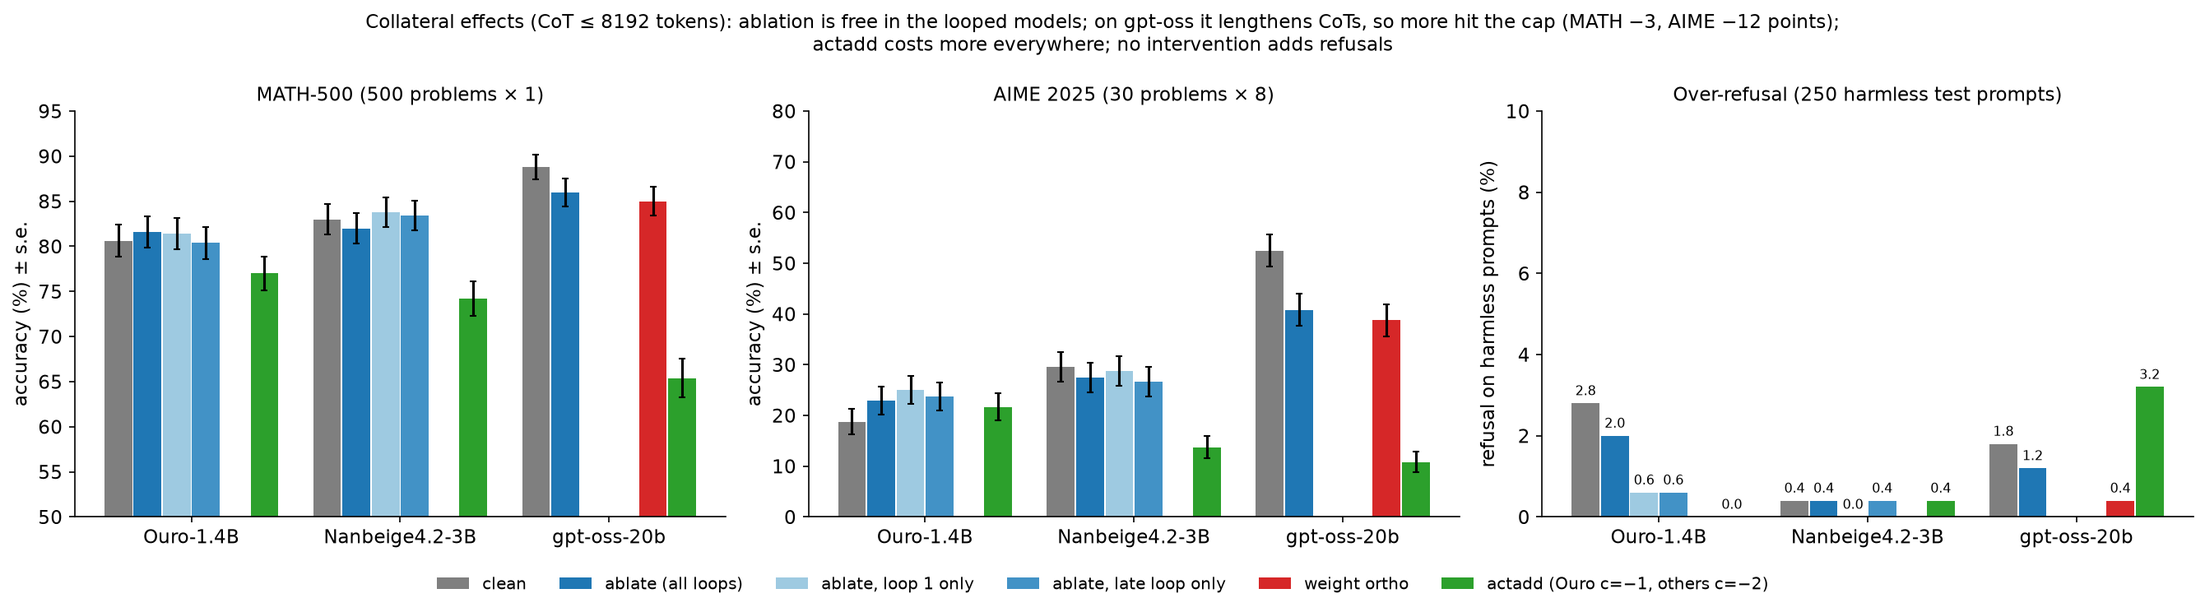
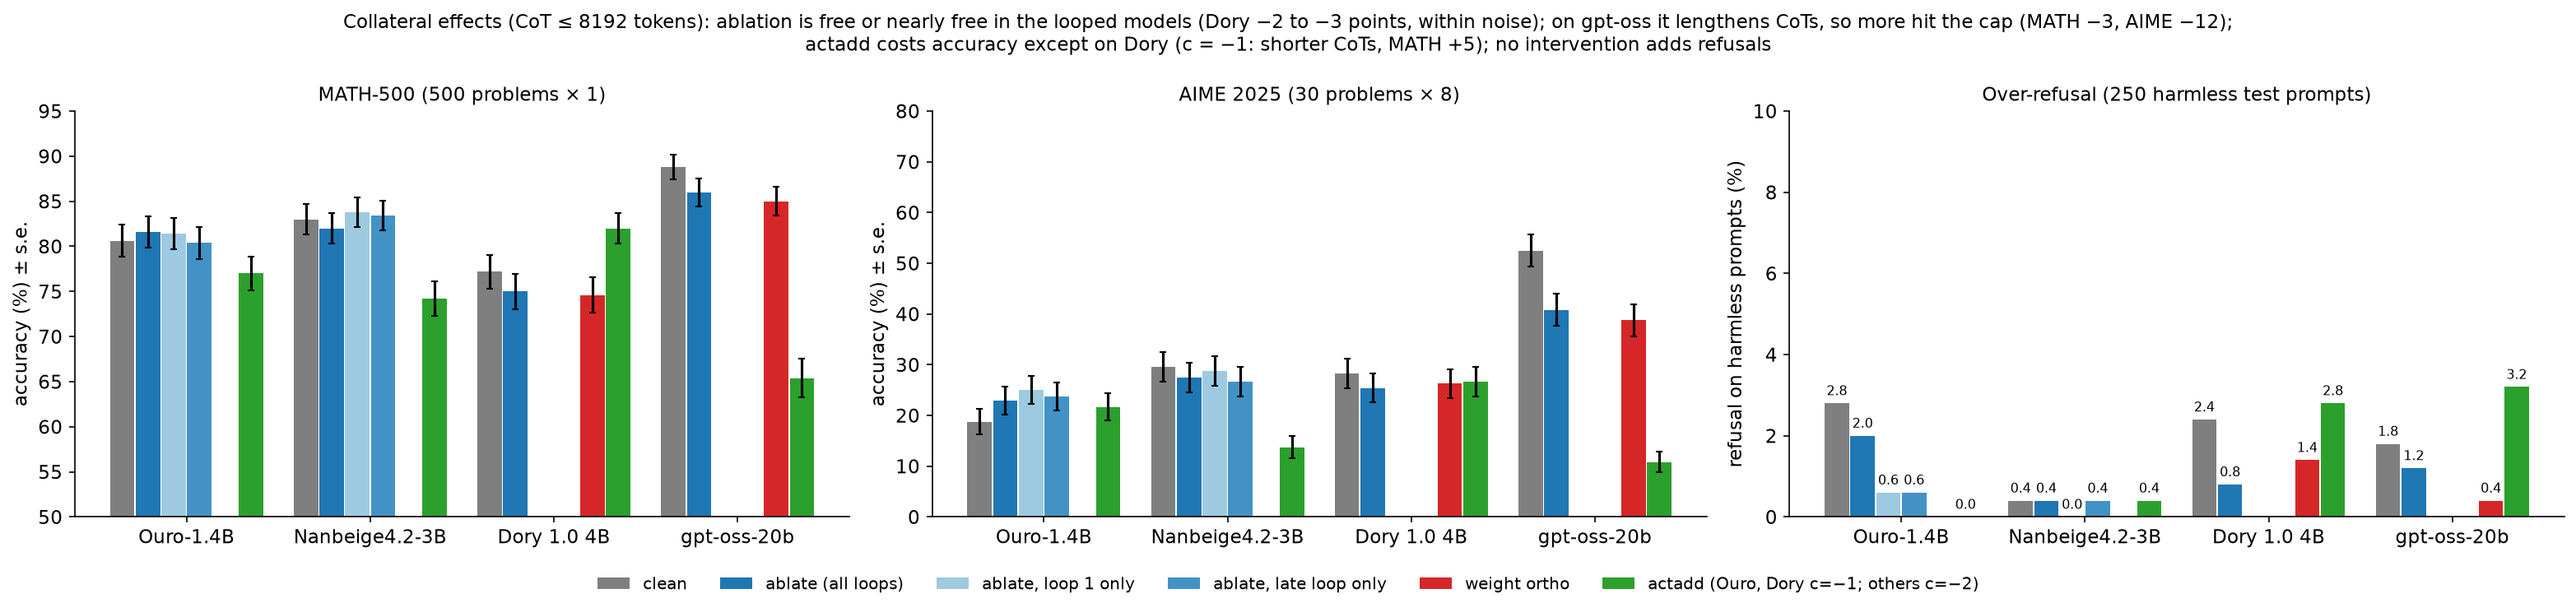
Dory at 4 loops: only the last loop matters; Dory capability and over-refusal
- Hooks: apply= counts Dory's recurrent loops only; its input and output stacks (run once) and the final stream are
  loop -1 (HF and vLLM, checked against each other on a tiny CPU model). dir=perloop keeps them with loop 0.
- Loop subsets at 4 loops (selection set): every set with loop 4 gives 10-15% refusal, every set without it 86-93%.
- Capability under hooks / weight edit / actadd and over-refusal for Dory; deck slide, figure, README and PLAN.

diff --git a/scripts/make_presentation_figures.py b/scripts/make_presentation_figures.py
@@ -730,9 +730,10 @@ def fig_capability():
     axes[2].set_title("Over-refusal (250 harmless test prompts)", fontsize=11)
     h, l = axes[0].get_legend_handles_labels()
     fig.legend(h, l, loc="lower center", ncol=6, fontsize=9.5, frameon=False, bbox_to_anchor=(0.5, -0.07))
-    fig.suptitle("Collateral effects (CoT ≤ 8192 tokens): ablation is free in the looped models; on gpt-oss it lengthens "
-                 "CoTs, so more hit the cap (MATH −3, AIME −12 points);\nactadd costs more everywhere; no intervention "
-                 "adds refusals", fontsize=11)
+    fig.suptitle("Collateral effects (CoT ≤ 8192 tokens): ablation is free or nearly free in the looped models (Dory −2 "
+                 "to −3 points, within noise); on gpt-oss it lengthens CoTs, so more hit the cap (MATH −3, AIME −12);\n"
+                 "actadd costs accuracy except on Dory (c = −1: shorter CoTs, MATH +5); no intervention adds refusals",
+                 fontsize=11)
     fig.tight_layout()
     fig.savefig(OUT / "capability.png", dpi=150, bbox_inches="tight"); plt.close(fig)
 
@@ -846,6 +847,68 @@ def fig_dory():
     print(df.sort_values("push").round(2).to_string(index=False))
 
 
+# ---------------------------------------------------------------- 13. Dory: which loops carry the refusal at 4 loops
+def fig_dory_loops():
+    """Hook ablation of u (harmful - harmless, loop 1 L26) in subsets of Dory's recurrent loops, run with 4 loops (and
+    with the trained 2, when loop_gate.csv exists). Dot rows: the input + output stacks ('in/out', run once) and each
+    recurrent loop."""
+    d = "NVIDIA-Nemotron-Labs-Dory1.0-4B-BF16"
+    a = "ablate_hh_eoi_t0.l26"
+    io = "in/out"
+    panels = [("loops4", "4 loops (trained with 2)", 4, [
+        ("random u, everywhere", "ablate_random_t0.l26", {io, 1, 2, 3, 4}, "random"),
+        ("", a + "_apply-1", {io}, "ablate"),
+        ("", a + "_apply0", {1}, "ablate"), ("", a + "_apply1", {2}, "ablate"), ("", a + "_apply2", {3}, "ablate"),
+        ("", a + "_apply0-1", {1, 2}, "ablate"), ("", a + "_apply0-1-2", {1, 2, 3}, "ablate"),
+        ("", a + "_apply3", {4}, "ablate"), ("", a + "_apply2-3", {3, 4}, "ablate"),
+        ("", a + "_apply1-2-3", {2, 3, 4}, "ablate"), ("", a + "_apply0-1-2-3", {1, 2, 3, 4}, "ablate"),
+        ("", a, {io, 1, 2, 3, 4}, "ablate"),
+        ("actadd", "actadd_hh_eoi_t0.l26_c-1_apply0", {1}, "actadd"),
+        ("actadd", "actadd_hh_eoi_t0.l26_c-1", {1, 2, 3, 4}, "actadd")])]
+    if (ROOT / "results" / d / "loop_gate.csv").exists():
+        panels.append(("loop_gate", "2 loops (as trained)", 2, [
+            ("", a + "_apply-1", {io}, "ablate"), ("", a + "_apply0", {1}, "ablate"), ("", a + "_apply1", {2}, "ablate"),
+            ("", a + "_apply0-1", {1, 2}, "ablate"), ("", a, {io, 1, 2}, "ablate"),
+            ("actadd", "actadd_hh_eoi_t0.l26_c-1_apply0", {1}, "actadd")]))
+    widths = [len(r) + 1 for *_, r in panels]
+    fig, axes = plt.subplots(2, len(panels), figsize=(4.2 + 0.62 * sum(widths), 5.8), squeeze=False,
+                             gridspec_kw={"width_ratios": widths, "height_ratios": [4, 1.5], "hspace": 0.05,
+                                          "wspace": 0.12})
+    for j, (tag, title, T, rows) in enumerate(panels):
+        t = pd.read_csv(ROOT / "results" / d / f"{tag}.csv").set_index("candidate")
+        if tag == "loop_gate":  # the 2-loop clean and full-ablation runs live in the screen
+            t = pd.concat([t, pd.read_csv(ROOT / "results" / d / "select_screen.csv").set_index("candidate")
+                           .loc[["none", a]].drop(index=[c for c in ("none", a) if c in t.index], errors="ignore")])
+        ax, dots = axes[0, j], axes[1, j]
+        x = np.arange(len(rows))
+        ref = [100 * t.loc[c, "all_refusal"] for _, c, _, _ in rows]
+        cap = [100 * t.loc[c, "capped_frac"] for _, c, _, _ in rows]
+        ax.bar(x, ref, width=0.7, color=[C["hook"] if k == "ablate" else C[k] for *_, k in rows])
+        for i, (v, cp) in enumerate(zip(ref, cap)):
+            ax.text(i, v + 1.5, f"{v:.0f}%", ha="center", fontsize=10, weight="bold")
+            if cp >= 1:
+                ax.text(i, v + 7.5, f"{cp:.0f}% unf.", ha="center", fontsize=7.5, color=C["ortho"])
+        clean = 100 * t.loc["none", "all_refusal"]
+        ax.axhline(clean, color=C["clean"], ls="--", lw=1.3)
+        gap = next((i for i in range(len(ref) - 1) if ref[i] > 50 > ref[i + 1]), len(ref) - 1)  # first tall -> short step
+        ax.text(gap + 0.4, clean + 1.5, f"clean {clean:.0f}%", color=C["clean"], fontsize=9)
+        ax.set_ylim(0, 110); ax.set_xticks([]); ax.set_xlim(-0.6, len(rows) - 0.4); ax.set_title(title, fontsize=11)
+        labels = [io] + list(range(1, T + 1))
+        for i, (_, _, on, kind) in enumerate(rows):
+            for k, lab in enumerate(labels):
+                col = {"ablate": "black", "actadd": C["actadd"], "random": "#999999"}[kind]
+                dots.plot(i, k, "o", ms=7, color=col if lab in on else "#dddddd")
+        dots.set_yticks(range(len(labels))); dots.set_yticklabels(["in/out"] + [f"loop {k}" for k in range(1, T + 1)])
+        dots.set_ylim(len(labels) - 0.4, -0.6); dots.set_xlim(-0.6, len(rows) - 0.4)
+        dots.set_xticks(x); dots.set_xticklabels([lab for lab, *_ in rows], fontsize=8, rotation=20)
+        dots.spines[["left", "bottom"]].set_visible(False)
+    axes[0, 0].set_ylabel("judge refusal, all samples (%)")
+    fig.suptitle("Dory, 50 selection prompts: hook ablation of u (harmful − harmless, loop 1 · L26) where the dots are "
+                 "black. At 4 loops only sets with the last loop work;\nloop 1 (even loops 1–3) is undone by the "
+                 "later loops. 'unf.' = CoTs still open at 4096 tokens. Actadd c = −1 (green).", fontsize=11, y=1.02)
+    fig.savefig(OUT / "dory_loops.png", dpi=150, bbox_inches="tight"); plt.close(fig)
+
+
 def copy_sweep_figures():
     """Loop-subset sweep and loop x layer map figures (made by scripts/loop_sweep_summary.py and
     scripts/loop_layer_summary.py under data/runs/<model>/figures) -> docs/figures."""
@@ -863,4 +926,5 @@ if __name__ == "__main__":
     fig_interventions(); fig_norm_leak(); fig_leak1(); fig_leak2(); fig_loop_count()
     fig_results(); fig_sites(); copy_sweep_figures()
     fig_models(); fig_pipeline(); fig_loops_test(); fig_loops_dose(); fig_capability(); fig_moe(); fig_dory()
+    fig_dory_loops()
     print("figures ->", OUT)

diff --git a/src/loop_steer/hooks.py b/src/loop_steer/hooks.py
@@ -21,6 +21,14 @@ def _loop(kwargs) -> int:
     return kwargs.get("current_ut", kwargs.get("loop_idx", 0))
 
 
+def _dory_recurrent(model):
+    """Dory: per sublayer, whether it is recurrent (input and output sublayers run once); None for other models."""
+    c = model.config
+    if not hasattr(c, "n_recurrent_layers"):
+        return None
+    return [c.n_input_layers <= i < c.n_input_layers + c.n_recurrent_layers for i in range(c.num_hidden_layers)]
+
+
 def _layer_input(args, kwargs) -> torch.Tensor:
     return args[0] if args else kwargs["hidden_states"]
 
@@ -82,9 +90,11 @@ def _project_out(x: torch.Tensor, unit: torch.Tensor) -> torch.Tensor:
 def actadd_hooks(model, vector: torch.Tensor, layer: int, coeff: float = 1.0, loops=None):
     """Add ``coeff * vector`` to resid_pre of ``layer`` (at all positions) in the given loops."""
     block = decoder_layers(model)[layer]
+    recurrent = _dory_recurrent(model)
+    once = recurrent is not None and not recurrent[layer]  # Dory input / output sublayer: loop -1 for ``loops``
 
     def hook(module, args, kwargs):
-        if loops is not None and _loop(kwargs) not in loops:
+        if loops is not None and (-1 if once else _loop(kwargs)) not in loops:
             return None
         h = _layer_input(args, kwargs)
         return _replace_layer_input(args, kwargs, h + coeff * vector.to(h))
@@ -101,6 +111,8 @@ def ablation_hooks(model, direction: torch.Tensor, loops=None, sites=("resid_pre
     (its write), and the final stream before the unembedding (its last interpolation is not followed by a sublayer).
     ``ref`` ([n_loops, n_layers]): affine ablation (ACE) -- layer l's input in loop t gets component ``ref[t, l]``
     along the direction instead of 0 (the final stream ``ref[0, -1]``); writes still get 0. Not for Ouro.
+    Dory's input and output sublayers and final stream run once; ``loops`` counts them as loop -1 (``loops=[0]`` is
+    the first recurrent loop only).
     """
     if hasattr(decoder_layers(model)[0], "input_layernorm_2"):
         if ref is not None:
@@ -108,13 +120,15 @@ def ablation_hooks(model, direction: torch.Tensor, loops=None, sites=("resid_pre
         return ouro_ablation_hooks(model, direction, loops=loops)
     unit = direction / direction.norm()
     blocks = decoder_layers(model)
-    state = {"loop": 0}  # set by each layer's tracker pre-hook; sublayers run inside that call
+    state = {"loop": 0, "gate": 0}  # set by each layer's tracker pre-hook; sublayers run inside that call
+    recurrent = _dory_recurrent(model)
 
     def active():
-        return loops is None or state["loop"] in loops
+        return loops is None or state["gate"] in loops
 
-    def track(module, args, kwargs):
+    def track(module, args, kwargs, i=None):
         state["loop"] = _loop(kwargs)
+        state["gate"] = state["loop"] if recurrent is None or recurrent[i] else -1
 
     def set_to(x, target):
         return _project_out(x, unit) if target is None else _project_out(x, unit) + target * unit.to(x)
@@ -133,12 +147,14 @@ def ablation_hooks(model, direction: torch.Tensor, loops=None, sites=("resid_pre
         return _project_out(output, unit)
 
     def final(module, args):
-        return (set_to(args[0], None if ref is None else float(ref[0][-1])), *args[1:]) if active() else None
+        if loops is not None and -1 not in loops:
+            return None
+        return (set_to(args[0], None if ref is None else float(ref[0][-1])), *args[1:])
 
     def register():
         handles = []
         for i, block in enumerate(blocks):
-            handles.append(block.register_forward_pre_hook(track, with_kwargs=True))  # first: sets the loop
+            handles.append(block.register_forward_pre_hook(functools.partial(track, i=i), with_kwargs=True))  # first
             if "resid_pre" in sites:
                 handles.append(block.register_forward_pre_hook(functools.partial(pre, i=i), with_kwargs=True))
             if hasattr(block, "mixer"):  # Dory: one sublayer per block

diff --git a/src/loop_steer/vllm_hooks.py b/src/loop_steer/vllm_hooks.py
@@ -15,6 +15,8 @@ Spec dicts (tensors may be on CPU):
       (attn/mlp outputs; for Ouro, the outputs of the post-sublayer norms; for Dory, each sublayer's mixer output and
       the final stream before the unembedding). With ``ref`` (affine ablation, as ACE): the input of layer l in loop t
       gets component ``ref[t, l]`` along dir instead of 0 (the final stream gets ``ref[0, -1]``); writes still get 0.
+  ``loops`` selects recurrent loops. Dory's input and output sublayers (and its final stream) run once; ``loops`` counts
+  them as loop -1, so ``loops=[0]`` is the first recurrent loop only and ``loops=[-1, 0]`` adds them.
   Either kind also takes ``"decay": n`` instead of ``positions``: full strength on the prompt, a half-cosine from 1
   to 0 over the first n CoT tokens, nothing after them or on the answer (the strength scales the added vector, or the
   removed / reset component along dir).
@@ -124,7 +126,7 @@ def install(model, specs):
     dory = _is_dory(model)
     pos_arg = 1 if gpt_oss else 0  # index of the positions argument of a decoder layer
     device, dtype = next(model.parameters()).device, next(model.parameters()).dtype
-    state = {"loop": 0, "cls": None, "masks": {}}
+    state = {"loop": 0, "gate": 0, "cls": None, "masks": {}}  # gate: the loop that ``loops`` selects on
     gated = any(s.get("positions") is not None or s.get("decay") or s["kind"] == "record" for s in specs)
     handles = []
 
@@ -189,17 +191,22 @@ def install(model, specs):
         pos, h, res = args[0], args[1], args[2] if len(args) > 2 else None
         return h, 0, res, lambda h2, r2: (pos, h2, r2, *args[3:])
 
-    def track(module, args):
-        state["loop"] = args[2] if looped else 0
+    if dory:  # Dory's input and output sublayers run once: gate them as loop -1
+        n_in, n_rec = model.model.config.n_input_layers, model.model.config.n_recurrent_layers
+        recurrent = [n_in <= i < n_in + n_rec for i in range(len(layers))]
 
-    handles += [layer.register_forward_pre_hook(track) for layer in layers]
+    def track(module, args, i=None):
+        state["loop"] = args[2] if looped else 0
+        state["gate"] = state["loop"] if not dory or recurrent[i] else -1
+
+    handles += [layer.register_forward_pre_hook(functools.partial(track, i=i)) for i, layer in enumerate(layers)]
     for spec in specs:
         if spec["kind"] == "record":
             continue
         loops = spec.get("loops")
         pos_cls = spec.get("positions")
         decay = spec.get("decay")
-        active = (lambda: True) if loops is None else (lambda loops=loops: state["loop"] in loops)
+        active = (lambda: True) if loops is None else (lambda loops=loops: state["gate"] in loops)
 
         if spec["kind"] == "actadd":
             vec = (spec["coeff"] * spec["vec"].float()).to(device=device, dtype=dtype)
@@ -243,8 +250,8 @@ def install(model, specs):
 
             if dory and pos_cls is None and not decay:  # final stream before the unembedding (logits_processor(lm_head, hidden));
                 # it sees only the sampled rows, so position-gated and decaying specs skip it
-                def final(module, args, proj=proj, active=active, target=0.0 if ref is None else ref[0][-1]):
-                    return (args[0], proj(args[1], target), *args[2:]) if active() else None
+                def final(module, args, proj=proj, loops=loops, target=0.0 if ref is None else ref[0][-1]):
+                    return (args[0], proj(args[1], target), *args[2:]) if loops is None or -1 in loops else None
 
                 handles.append(model.logits_processor.register_forward_pre_hook(final))
             for i, layer in enumerate(layers):

diff --git a/scripts/intervene.py b/scripts/intervene.py
@@ -9,7 +9,8 @@ Candidate syntax: ``kind:method:site[:opt=val...]`` or ``none``.
   method  key in directions/<file>.pt (v4_cot, v12_cot150, v4_baseline, paired_cot, ...)
   site    l<layer> or t<loop>.l<layer> -- where the direction was extracted
   opts    c=<coeff>      actadd coefficient (default -1.0: subtract the refusal direction)
-          apply=<t,t..>  loops to intervene in (default: all loops)
+          apply=<t,t..>  loops to intervene in (default: all loops). Dory: recurrent loops; its input and output
+                         sublayers (run once) are loop -1, so apply=0 is the first recurrent loop alone
           layer=<l>      actadd at a different layer than the extraction site
           na=1           ortho only: norm-aware weight edit (project g*u, g = gain of the sandwich norm after each
                          writer, instead of u; see loop_steer.ortho). Matters for Ouro.
@@ -120,6 +121,8 @@ def intervention_specs(c, dirs, site_index):
     if c["perloop"]:
         n_loops = max(t for t, _ in dirs["sites"]) + 1
         groups = [([t], table[site_index[(t, c["site"][1])]]) for t in (c["apply"] or range(n_loops))]
+        if not c["apply"]:  # Dory: its input and output sublayers (loop -1 for the hooks) go with loop 0, as their sites
+            groups[0] = ([-1, 0], groups[0][1])
     else:
         groups = [(c["apply"], table[site_index[c["site"]]])]
     layer = c["layer"] if c["layer"] is not None else c["site"][1]

diff --git a/docs/presentation.md b/docs/presentation.md
@@ -228,7 +228,9 @@ some loops is a separate experiment (next slides).
 - **Actadd costs accuracy:** MATH-500 −3.6 (Ouro, c = −1), −8.8 (Nanbeige, c = −2), −23 points (gpt-oss, c = −2);
   AIME: Nanbeige 29.6% → 13.8%, gpt-oss 52.5% → 10.8%. It also lengthens CoTs.
 - **No over-refusal:** 0–3% refusal on harmless prompts under every config (a weak check: our interventions lower refusal).
-- **Dory** (harmful − harmless hooks, weight edit, actadd): runs pending; clean MATH-500 77.2%, AIME 2025 28.3%.
+- **Dory** (u = harmful − harmless): hooks and the weight edit cost 2–3 points (MATH-500 77.2 → 75.0 / 74.6%, AIME
+  28.3 → 25.4 / 26.3%), within about one s.e.; actadd c = −1 *raises* MATH-500 to 82.0% (shorter CoTs: 89% close vs
+  86%), AIME 26.7%. Over-refusal 0.8–2.8% (clean 2.4%).
 - AIME at 8192 tokens closes only 24–33% of CoTs (Dory 30%), so it mostly measures problems solved early.
 
 ---
@@ -327,7 +329,7 @@ Logit lens on clean traces (decode each loop's output directly):
 |---|---|---|
 | hook ablation | 2–6% | 10–18% |
 | weight ortho vs hooks | equal (MoE: every expert and bias edited) | never equal: 11% (Nanbeige) to broken (Ouro) |
-| loop 1 only | – | 49–53% (Ouro, Nanbeige): later loops rebuild the signal |
+| loop 1 only | – | 49–53% (Ouro, Nanbeige); Dory at 4 loops 92% (clean 90%): later loops rebuild the signal |
 | actadd | one push | a dose that accumulates over loops |
 
 - **Shared weights + a norm between an edited write and the stream = a leak**, and loops compound it. Where the norm
@@ -347,8 +349,9 @@ Logit lens on clean traces (decode each loop's output directly):
    edited weights. Ouro breaks twice: sandwich norms re-add `u` to every write, and the amplifying inter-loop norm
    compounds the leak while the edit stops the model from correcting it. Nanbeige survives (raw writes, shrinking norm).
    Dory's per-dimension blend leaks at every sublayer: the weight edit gets half the hooks' effect (26% vs 12%).
-3. **Refusal is decided late, but not in one loop.** Later loops carry most of the effect; ablating loop 1 alone
-   barely helps; no single loop matches all loops. One direction (last loop's) works in every loop.
+3. **Refusal is decided late.** Later loops carry most of the effect; ablating loop 1 alone barely helps. Dory run
+   with 4 loops is the extreme case: the last loop alone gives 15% (all loops 10–12%), loops 1–3 together 86%.
+   One direction works in every loop.
 4. **Ablation and actadd differ.** Ablation needs a late loop and costs no capability in the looped models (on gpt-oss
    it lengthens CoTs); actadd is a dose over loops, works at early-to-middle layers of late loops, and costs 4–23 points
    of MATH-500 accuracy.
@@ -370,6 +373,7 @@ Logit lens on clean traces (decode each loop's output directly):
 - gpt-oss is judged by gpt-oss-20b itself (refusal-phrase check agrees); its weight edit runs on a bf16 copy (MXFP4
   would undo 63% of it).
 - Mechanism numbers come from 8 traces (≈ 2.7k tokens) per model, one refusal site each.
+- Dory's loop-subset results are selection-set only (50 prompts), with 4 loops (trained with 2) and u measured at 2.
 - Dory: its headline numbers use a different direction (harmful − harmless) from the other models; it runs on our own
   port of an unreleased architecture (NVIDIA's vLLM PR), checked against our HF implementation, not NVIDIA's.
 - Some Nanbeige edits damage generation: the `v4_cot` loop-1 weight edit leaves 47% of CoTs unclosed (selection). Nanbeige
@@ -452,6 +456,20 @@ Logit lens on clean traces (decode each loop's output directly):
 
 ---
 
+## Dory at 4 loops: only the last loop matters
+
+![w:1150](figures/dory_loops.png)
+
+- Run with 4 loops (trained with 2; clean 90%), hooks remove u in a subset of the *recurrent* loops. The input and
+  output stacks run once and are a separate switch (`apply=-1`).
+- **Every set with loop 4 works** (loop 4 alone 15%, all loops 10–12%); **every set without it fails**: loop 1 92%,
+  loops 1–3 86%, input + output stacks 93%. Same 40 sublayers per single loop, so it is *where*, not how many.
+- Stronger than in Ouro (loop 1 alone 40%, any set with loop 3 or 4 8–15%): Dory adds the input stack's output back
+  before every loop, so after loop 1 the next loop starts with u again (input stack + loop 1: next run).
+- The cost moves with loop 4: 17–20% of CoTs still open at 4096 (19% at 2 loops); actadd only in loop 1 does nothing.
+
+---
+
 ## Next steps
 
 1. **Deck:** add the loop-rebuild result (ablating loop 1 only: Ouro rebuilds 93% of the clean prompt-end separation by
@@ -460,8 +478,10 @@ Logit lens on clean traces (decode each loop's output directly):
    on the test set; then gpt-oss.
 3. **Statistics:** bootstrap confidence intervals over prompts for every table.
 4. **Capability at a longer cap** (AIME at 16–32k tokens) and actadd at matched strength across models.
-5. **Dory:** does loop-1 ablation survive 4 loops (as in Ouro)? Capability and over-refusal under the interventions
-   (running). The harmful − harmless direction on Ouro and Nanbeige, for a like-for-like comparison.
+5. **Dory:** loop subsets at the trained 2 loops (running); input stack + loop 1 (the analogue of Ouro's loop 1),
+   leave-one-loop-out sets, ablation only at the site or only at the final stream; check that u still separates
+   refusing from complying in loops 3–4 and that adding it makes harmless prompts refused. The harmful − harmless
+   direction on Ouro and Nanbeige, for a like-for-like comparison.
 6. Remaining sweeps: `paired_cot` directions, actadd coefficients, a teacher-forced per-loop screen; explain the Qwen
    whole-CoT gap (15% vs the paper's 7.5%).
 

diff --git a/PLAN.md b/PLAN.md
@@ -38,9 +38,16 @@ and why weight orthogonalization fails on Ouro.
 
 **Dory (NVIDIA Nemotron-Labs Dory 1.0 4B, looped nGPT)**: nothing running. **Test set** (487 prompts, `hh_eoi` u from
 t0.l26, capped CoTs extended to 8192): clean 92.3%, random 91.4%, **hooks 12.4%** (14% of CoTs hit 4096, 0.9% still
-unclosed at 8192), weight edit 25.5% (1.4%), actadd c=-1 23.1% (3.4%), hooks with decay=200 41.1% (0.5%). Clean
-capability: MATH-500 77.2% (86% of CoTs close at 8192), AIME 2025 28.3% (30% close). Next: capability under the
-interventions, deck update.
+unclosed at 8192), weight edit 25.5% (1.4%), actadd c=-1 23.1% (3.4%), hooks with decay=200 41.1% (0.5%). Capability
+(CoT <= 8192): MATH-500 clean 77.2%, hooks 75.0%, weight edit 74.6%, actadd c=-1 82.0% (shorter CoTs); AIME 2025
+28.3 / 25.4 / 26.3 / 26.7%. Over-refusal 0.8-2.8% (clean 2.4%).
+- **Loop subsets at 4 loops** (selection set, TAG `loops4`, `scripts/run_select.sh` with N_LOOPS=4; u = hh_eoi t0.l26;
+  `apply=` now counts recurrent loops only, Dory's input / output stacks are loop -1): every set containing loop 4
+  gives 10-15% all_refusal (17-20% capped), every set without it 86-93% (loop 1 92%, loops 1-3 86%, in/out only 93%);
+  clean 90%, random 93%; actadd c=-1 all loops 20%, loop 1 only 92%. Running: the same at 2 loops (TAG `loop_gate`).
+  Next: input stack + loop 1 (`apply=-1,0`), leave-one-out (`0,1,3`, `0,2,3`), ablation at the site only / final
+  stream only (needs a `layers=` option), u's separation in loops 3-4 at 4 loops, and the actadd(+u)-on-harmless
+  check of the direction; `loop_rebuild.py` Dory branch.
 - **The harmful - harmless direction works** (`scripts/run_dory.sh contrast`: 1,409 harmful train prompts minus the
   selection set vs 1,174 harmless, end-of-prompt tokens; split-half 1.00 everywhere). Screen: hooks with u from t0.l26
   8.4% refusal / 19% capped (t0.l22, t0.l38, t1.l38: 6-10% / 31-33%), affine 1-2% / 31-39%, l62 75%; actadd c=-1 21%.

diff --git a/README.md b/README.md
@@ -66,10 +66,11 @@ points s.e. on MATH-500, ±2.8 on AIME 2025):
 | Ouro-1.4B | 80.6% | 80.4–81.6% | 77.0% (c=−1) | 18.8% | 22.9–25.0% | 21.7% |
 | Nanbeige4.2-3B | 83.0% | 82.0–83.8% | 74.2% (c=−2) | 29.6% | 26.7–28.8% | 13.8% |
 | gpt-oss-20b | 88.8% | 85.0–86.0% | 65.4% (c=−2) | 52.5% | 38.8–40.8% | 10.8% |
+| Dory 1.0 4B | 77.2% | 74.6–75.0% | 82.0% (c=−1) | 28.3% | 25.4–26.3% | 26.7% |
 
-Ablation costs nothing measurable in the looped models. On gpt-oss it lengthens the CoT, so more CoTs hit the 8192-token
+Ablation costs nothing measurable in the looped models (Dory: hooks and weight edit, 2–3 points, about one s.e.). On gpt-oss it lengthens the CoT, so more CoTs hit the 8192-token
 cap (accuracy of the CoTs that close is unchanged; at a 16k cap the AIME gap shrinks from 12 to 8 points, 65% → 57%).
-Actadd costs accuracy in every model. AIME at 8192 CoT tokens closes only 24–33%
+Actadd costs accuracy in every model but Dory (c=−1 shortens its CoTs). AIME at 8192 CoT tokens closes only 24–33%
 of CoTs, so it is a weak test.
 
 **Caveats.** The all-subsets sweep and the loop × layer map use the 50 selection prompts (differences below about 4 points are
